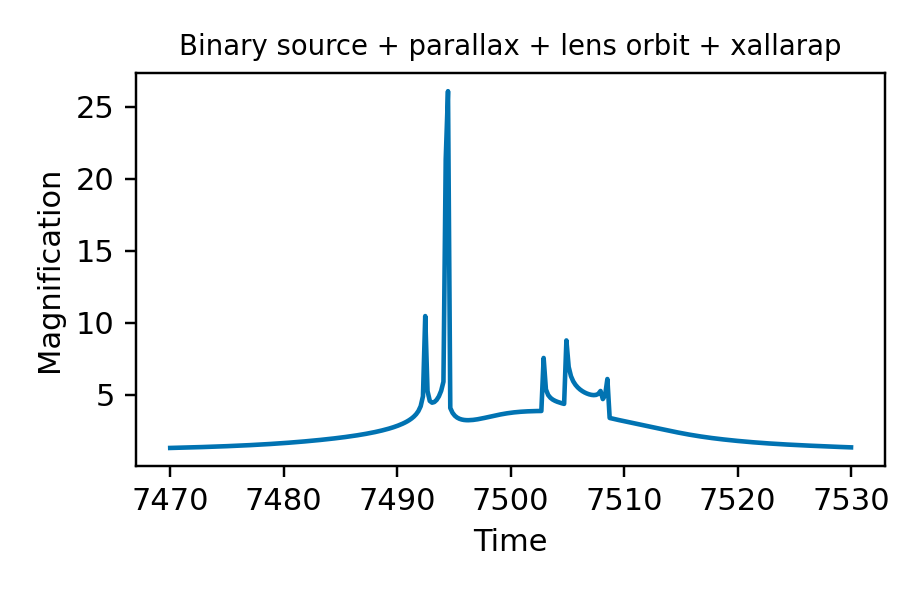
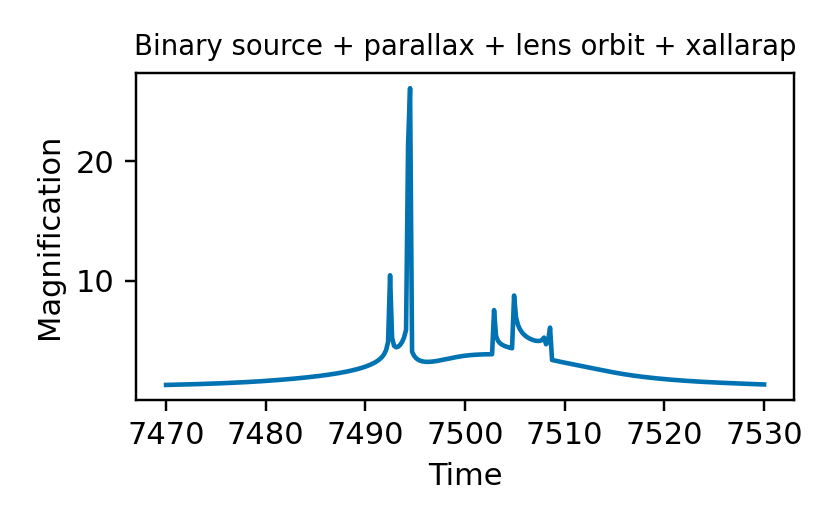
docs: compact higher-order combination figures

Changed region(s): [[0.0311, 0.0606, 0.9641, 0.9394]]

diff --git a/example/docs-python/generate_figures.py b/example/docs-python/generate_figures.py
@@ -803,7 +803,7 @@ def higher_order_combination_figures():
         curve = lcbinint.LightCurve(model=lcbinint.Model(**model_args), options=options)
         magnification = curve(times, params)
 
-        plt.figure(figsize=(4.2, 2.7))
+        plt.figure(figsize=(3.8, 2.4))
         plt.plot(times, magnification, color="#0173B2")
         plt.xlabel("Time")
         plt.ylabel("Magnification")
@@ -811,7 +811,7 @@ def higher_order_combination_figures():
         save(f"{stem}_lightcurve.png")
 
         caustics = curve.caustics(7500.0, params) if orbital else curve.caustics(params)
-        plt.figure(figsize=(3.4, 3.2))
+        plt.figure(figsize=(2.8, 2.7))
         plot_caustics(caustics, color="#6C6C6C", lw=1.1)
         if binary_source:
             components = curve.binary_source_components(times, params)

diff --git a/docs/python/HigherOrderCombinations.md b/docs/python/HigherOrderCombinations.md
@@ -80,8 +80,7 @@ trajectory = curve.source_trajectory(times, parameters)
 caustics = curve.caustics(7500.0, parameters)
 ```
 
-![Parallax and lens orbit light curve](figures/ParallaxOrbital_lightcurve.png)
-![Parallax and lens orbit geometry](figures/ParallaxOrbital_geometry.png)
+<p><img src="figures/ParallaxOrbital_lightcurve.png" alt="Parallax and lens orbit light curve" width="56%"> <img src="figures/ParallaxOrbital_geometry.png" alt="Parallax and lens orbit geometry" width="40%"></p>
 
 ## Parallax + xallarap
 
@@ -95,8 +94,7 @@ trajectory = curve.source_trajectory(times, parameters)
 caustics = curve.caustics(parameters)
 ```
 
-![Parallax and xallarap light curve](figures/ParallaxXallarap_lightcurve.png)
-![Parallax and xallarap geometry](figures/ParallaxXallarap_geometry.png)
+<p><img src="figures/ParallaxXallarap_lightcurve.png" alt="Parallax and xallarap light curve" width="56%"> <img src="figures/ParallaxXallarap_geometry.png" alt="Parallax and xallarap geometry" width="40%"></p>
 
 ## Lens orbit + xallarap
 
@@ -110,8 +108,7 @@ trajectory = curve.source_trajectory(times, parameters)
 caustics = curve.caustics(7500.0, parameters)
 ```
 
-![Lens orbit and xallarap light curve](figures/OrbitalXallarap_lightcurve.png)
-![Lens orbit and xallarap geometry](figures/OrbitalXallarap_geometry.png)
+<p><img src="figures/OrbitalXallarap_lightcurve.png" alt="Lens orbit and xallarap light curve" width="56%"> <img src="figures/OrbitalXallarap_geometry.png" alt="Lens orbit and xallarap geometry" width="40%"></p>
 
 ## Parallax + lens orbit + xallarap
 
@@ -126,8 +123,7 @@ trajectory = curve.source_trajectory(times, parameters)
 caustics = curve.caustics(7500.0, parameters)
 ```
 
-![All single-source effects light curve](figures/ParallaxOrbitalXallarap_lightcurve.png)
-![All single-source effects geometry](figures/ParallaxOrbitalXallarap_geometry.png)
+<p><img src="figures/ParallaxOrbitalXallarap_lightcurve.png" alt="All single-source effects light curve" width="56%"> <img src="figures/ParallaxOrbitalXallarap_geometry.png" alt="All single-source effects geometry" width="40%"></p>
 
 ## Binary source + parallax
 
@@ -144,8 +140,7 @@ magnification = components.total
 caustics = curve.caustics(parameters)
 ```
 
-![Binary source and parallax light curve](figures/BinarySourceParallax_lightcurve.png)
-![Binary source and parallax geometry](figures/BinarySourceParallax_geometry.png)
+<p><img src="figures/BinarySourceParallax_lightcurve.png" alt="Binary source and parallax light curve" width="56%"> <img src="figures/BinarySourceParallax_geometry.png" alt="Binary source and parallax geometry" width="40%"></p>
 
 ## Binary source + lens orbit
 
@@ -162,8 +157,7 @@ magnification = components.total
 caustics = curve.caustics(7500.0, parameters)
 ```
 
-![Binary source and lens orbit light curve](figures/BinarySourceOrbital_lightcurve.png)
-![Binary source and lens orbit geometry](figures/BinarySourceOrbital_geometry.png)
+<p><img src="figures/BinarySourceOrbital_lightcurve.png" alt="Binary source and lens orbit light curve" width="56%"> <img src="figures/BinarySourceOrbital_geometry.png" alt="Binary source and lens orbit geometry" width="40%"></p>
 
 ## Binary source + parallax + lens orbit
 
@@ -181,8 +175,7 @@ magnification = components.total
 caustics = curve.caustics(7500.0, parameters)
 ```
 
-![Binary source parallax lens orbit light curve](figures/BinarySourceParallaxOrbital_lightcurve.png)
-![Binary source parallax lens orbit geometry](figures/BinarySourceParallaxOrbital_geometry.png)
+<p><img src="figures/BinarySourceParallaxOrbital_lightcurve.png" alt="Binary source parallax lens orbit light curve" width="56%"> <img src="figures/BinarySourceParallaxOrbital_geometry.png" alt="Binary source parallax lens orbit geometry" width="40%"></p>
 
 ## Binary source + parallax + xallarap
 
@@ -198,8 +191,7 @@ magnification = components.total
 caustics = curve.caustics(parameters)
 ```
 
-![Binary source parallax xallarap light curve](figures/BinarySourceParallaxXallarap_lightcurve.png)
-![Binary source parallax xallarap geometry](figures/BinarySourceParallaxXallarap_geometry.png)
+<p><img src="figures/BinarySourceParallaxXallarap_lightcurve.png" alt="Binary source parallax xallarap light curve" width="56%"> <img src="figures/BinarySourceParallaxXallarap_geometry.png" alt="Binary source parallax xallarap geometry" width="40%"></p>
 
 ## Binary source + lens orbit + xallarap
 
@@ -215,8 +207,7 @@ magnification = components.total
 caustics = curve.caustics(7500.0, parameters)
 ```
 
-![Binary source lens orbit xallarap light curve](figures/BinarySourceOrbitalXallarap_lightcurve.png)
-![Binary source lens orbit xallarap geometry](figures/BinarySourceOrbitalXallarap_geometry.png)
+<p><img src="figures/BinarySourceOrbitalXallarap_lightcurve.png" alt="Binary source lens orbit xallarap light curve" width="56%"> <img src="figures/BinarySourceOrbitalXallarap_geometry.png" alt="Binary source lens orbit xallarap geometry" width="40%"></p>
 
 ## Binary source + parallax + lens orbit + xallarap
 
@@ -233,7 +224,6 @@ magnification = components.total
 caustics = curve.caustics(7500.0, parameters)
 ```
 
-![All binary-source effects light curve](figures/BinarySourceParallaxOrbitalXallarap_lightcurve.png)
-![All binary-source effects geometry](figures/BinarySourceParallaxOrbitalXallarap_geometry.png)
+<p><img src="figures/BinarySourceParallaxOrbitalXallarap_lightcurve.png" alt="All binary-source effects light curve" width="56%"> <img src="figures/BinarySourceParallaxOrbitalXallarap_geometry.png" alt="All binary-source effects geometry" width="40%"></p>
 
 [Previous: Combining higher-order effects](CombinedEffects.md) · [Documentation home](readme.md)
